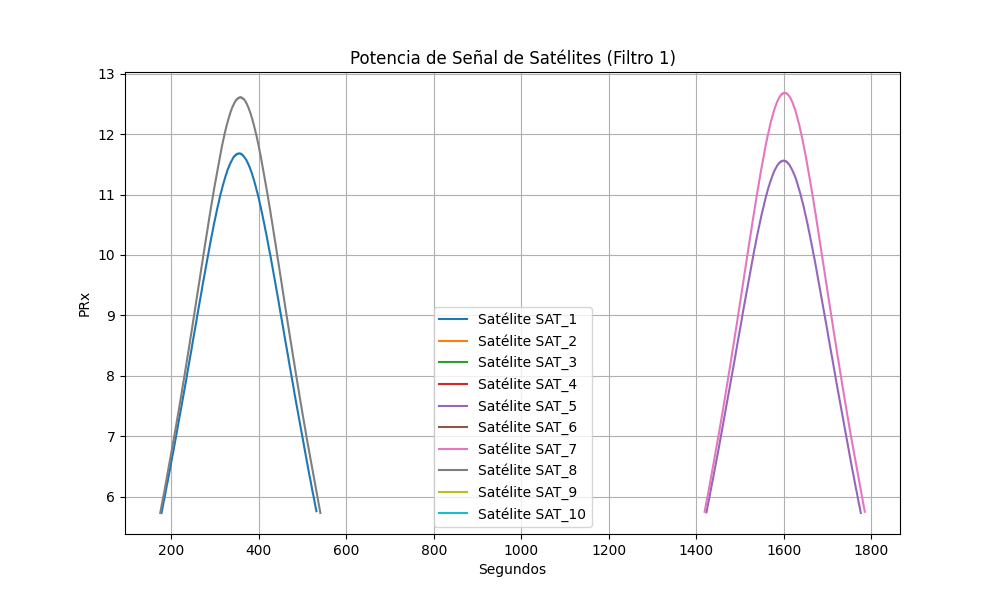
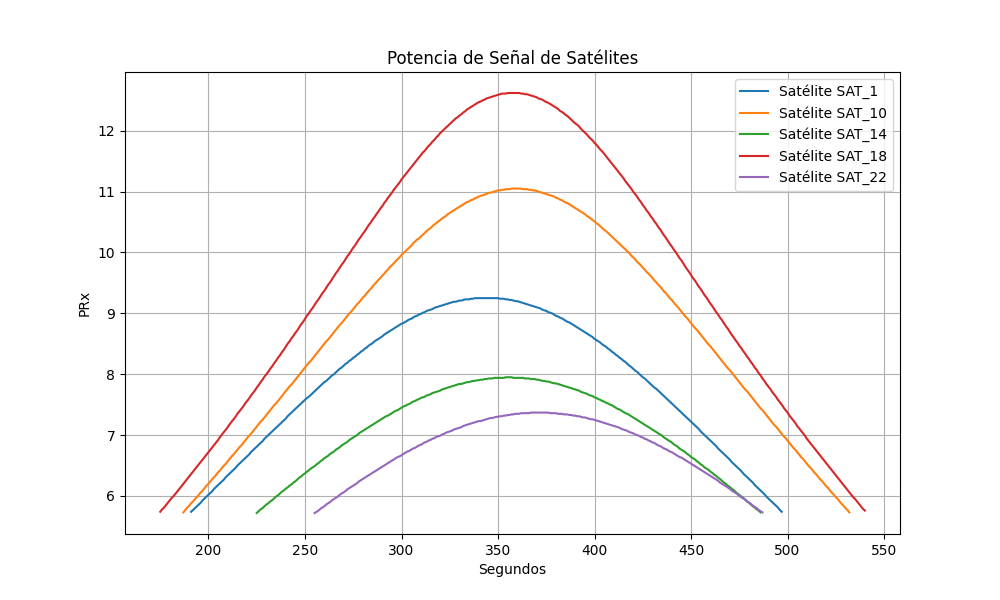
filtros

diff --git a/graficador.py b/graficador.py
@@ -1,30 +1,71 @@
-from datos_satelites import Satelite
+from datos_satelites import Satelite, DatosSatelite
 import matplotlib.pyplot as plt
+import numpy as np
+from typing import Callable
 
 class GraficadorPotencia:
 
-    def grafica_potencias(self, satelites: list[Satelite], grafica_name="grafica_potencias.png") -> None:
+    def __init__(self, satelites: list[Satelite]):
+        self.satelites = satelites
+
+    def grafica_potencias(self, grafica_name="grafica_potencias.png") -> None:
         plt.figure(figsize=(10, 6))
-        for satelite in satelites:
+        for satelite in self.satelites:
             segundos = [dato.segundo for dato in satelite.datos]
             prx_values = [dato.prx for dato in satelite.datos]
-            plt.plot(segundos, prx_values, label=f'Satélite {satelite.id}')
-        
-        self._show_plot('Potencia de Señal de Satélites', grafica_name)
-    
-    def grafica_potencias_filtro1(self, satelites: list[Satelite], grafica_name="grafica_potencias_filtro1.png") -> None:
-        plt.figure(figsize=(10, 6))
-        for satelite in satelites:
-            segundos = [dato.segundo for dato in satelite.datos if dato.is_visible_outer]
-            prx_values = [dato.prx for dato in satelite.datos if dato.is_visible_outer]
-            plt.plot(segundos, prx_values, label=f'Satélite {satelite.id}')
-        
-        self._show_plot('Potencia de Señal de Satélites (Filtro 1)', grafica_name)
+            
+            horas_str = [f"{segundo // 3600:02d}:{(segundo % 3600) // 60:02d}:{segundo % 60:02d}" for segundo in segundos]
 
-    def _show_plot(self, title: str, grafica_name: str) -> None:
+            step = max(1, len(segundos) // 10)
+            plt.xticks(
+                segundos[::step],
+                horas_str[::step]
+            )
+
+            plt.plot(segundos, prx_values, label=f'Satélite {satelite.id}')
+        
+        self._show_plot('Potencia de Señal de Satélites', 'Horas', 'PRx', grafica_name)
+    
+    def grafica_disponibilidad_cobertura(self, grafica_name="grafica_disponibilidad_cobertura.png") -> None:
+        plt.figure(figsize=(10, 6))
+        segundos = [dato.segundo for dato in self.satelites[0].datos]
+        disponibilidad_outer = self._obtener_disponibilidad(segundos, lambda dato: dato.is_visible_outer)
+        disponibilidad_inner = self._obtener_disponibilidad(segundos, lambda dato: dato.is_visible_inner)
+        
+        str_times = [f"{segundo // 3600:02d}:{(segundo % 3600) // 60:02d}:{segundo % 60:02d}" for segundo in segundos]
+        plt.xticks([i for i in range(0, len(segundos), max(1, len(segundos) // 10))], [str_times[i] for i in range(0, len(segundos), max(1, len(segundos) // 10))])
+        
+        disponibilidad_outer = np.array(disponibilidad_outer)
+        disponibilidad_outer_0 = np.where(disponibilidad_outer == 0, 0, np.nan)
+        disponibilidad_outer_1 = np.where(disponibilidad_outer == 1, 0, np.nan)
+
+        disponibilidad_inner = np.array(disponibilidad_inner)
+        disponibilidad_inner_0 = np.where(disponibilidad_inner == 0, 1, np.nan)
+        disponibilidad_inner_1 = np.where(disponibilidad_inner == 1, 1, np.nan)
+
+        plt.plot(segundos, disponibilidad_outer_0, 'red', label='No Disponible (Outer)')
+        plt.plot(segundos, disponibilidad_outer_1, 'green', label='Disponible (Outer)')
+
+        plt.plot(segundos, disponibilidad_inner_0, 'orange', label='No Disponible (Inner)')
+        plt.plot(segundos, disponibilidad_inner_1, 'blue', label='Disponible (Inner)')
+        
+        self._show_plot('Disponibilidad Cobertura', 'Horas', 'Disponibilidad', grafica_name)
+    
+    def _obtener_disponibilidad(self, segundos: list[int], condition: Callable[[DatosSatelite], bool]) -> list[int]:
+        disponibilidad = []
+        for segundo in segundos:
+            for satelite in self.satelites:
+                if any(dato.segundo == segundo and condition(dato) for dato in satelite.datos):
+                    disponibilidad.append(1)
+                    break
+            else:
+                disponibilidad.append(0)
+        return disponibilidad
+
+    def _show_plot(self, title: str, xlabel: str, ylabel: str,  grafica_name: str) -> None:
         plt.title(title)
-        plt.xlabel('Segundos')
-        plt.ylabel('PRx')
+        plt.xlabel(xlabel)
+        plt.ylabel(ylabel)
         plt.legend()
         plt.grid()
         plt.savefig(grafica_name)

diff --git a/filtro_potencia.py b/filtro_potencia.py
@@ -1,0 +1,49 @@
+from abc import ABC, abstractmethod
+from datos_satelites import Satelite
+
+class FiltroPotencia(ABC):
+
+    def __init__(self):
+        self._next_filtro: FiltroPotencia | None = None
+
+    @abstractmethod
+    def filtrar(self, satelites: list[Satelite]) -> list[Satelite]: ...
+
+    def next(self, next_filtro: 'FiltroPotencia') -> 'FiltroPotencia':
+        self._next_filtro = next_filtro
+        return next_filtro
+
+
+class FiltroFootprintExterno(FiltroPotencia):
+    def __init__(self):
+        super().__init__()
+
+    def filtrar(self, satelites: list[Satelite]) -> list[Satelite]:
+        satelites_filtrados: list[Satelite] = []
+
+        for satelite in satelites:
+            datos_satelite = [dato for dato in satelite.datos if dato.is_visible_outer]
+            if len(datos_satelite) > 0:
+                satelites_filtrados.append(Satelite(id=satelite.id, datos=datos_satelite))
+        
+        if self._next_filtro:
+            return self._next_filtro.filtrar(satelites_filtrados)
+        return satelites_filtrados
+
+
+class FiltroPoteciaRecibida(FiltroPotencia):
+    def __init__(self, sensibilidad: float):
+        super().__init__()
+        self.sensibilidad = sensibilidad
+
+    def filtrar(self, satelites: list[Satelite]) -> list[Satelite]:
+        satelites_filtrados: list[Satelite] = []
+
+        for satelite in satelites:
+            datos_satelite = [dato for dato in satelite.datos if dato.prx >= self.sensibilidad]
+            if len(datos_satelite) > 0:
+                satelites_filtrados.append(Satelite(id=satelite.id, datos=datos_satelite))
+        
+        if self._next_filtro:
+            return self._next_filtro.filtrar(satelites_filtrados)
+        return satelites_filtrados

diff --git a/datos_satelites.py b/datos_satelites.py
@@ -6,6 +6,7 @@ class DatosSatelite(BaseModel):
     segundo: int
     prx: float
     is_visible_outer: bool = False
+    is_visible_inner: bool = False
 
 
 class Satelite(BaseModel):
@@ -22,17 +23,19 @@ class XLSXLectorSatelite:
         print(f"Leyendo datos del archivo: {self.file_path}")
         df = pd.read_excel(
             self.file_path,
-            usecols=["Hora", "Sat_ID", "PRx", "is_visible_outer"],
+            usecols=["hora", "sat_id", "PRx", "is_visible_outer", "is_visible_inner"],
         )
 
         for i, row in df.iterrows():
             print(f"Procesando fila numero {i}")
 
-            if row["Sat_ID"] not in self.satelites:
-                self.satelites[row["Sat_ID"]] = Satelite(id=row["Sat_ID"])
+            if row["sat_id"] not in self.satelites:
+                print(row["sat_id"], type(row["sat_id"]))
+                self.satelites[row["sat_id"]] = Satelite(id=row["sat_id"])
 
-            self.satelites[row["Sat_ID"]].datos.append(self._map_datos(row))
-        
+            self.satelites[row["sat_id"]].datos.append(self._map_datos(row))
+            
+        self._print_data()
         return list(self.satelites.values())
     
     def _calcular_segundos(self, hora: str) -> int:
@@ -41,7 +44,17 @@ class XLSXLectorSatelite:
     
     def _map_datos(self, row: pd.Series) -> DatosSatelite:
         return DatosSatelite(
-            segundo=self._calcular_segundos(row["Hora"]),
+            segundo=self._calcular_segundos(row["hora"]),
             prx=round(row["PRx"], 2),
-            is_visible_outer=row["is_visible_outer"]
+            is_visible_outer=row["is_visible_outer"],
+            is_visible_inner=row["is_visible_inner"]
         )
+
+    def _print_data(self) -> None:
+        for satelite in self.satelites.values():
+            print(f"Satélite ID: {satelite.id}")
+            print(f"Cantidad de datos: {len(satelite.datos)}")
+            count_outer_visible = sum(1 for datos in satelite.datos if datos.is_visible_outer)
+            print(f"Cantidad de datos con is_visible_outer=True: {count_outer_visible}")
+            count_inner_visible = sum(1 for datos in satelite.datos if datos.is_visible_inner)
+            print(f"Cantidad de datos con is_visible_inner=True: {count_inner_visible}")

diff --git a/test_graficador.py b/test_graficador.py
@@ -1,9 +1,19 @@
 from datos_satelites import XLSXLectorSatelite
 from graficador import GraficadorPotencia
+from filtro_potencia import FiltroFootprintExterno, FiltroPoteciaRecibida
 
-lector = XLSXLectorSatelite("datos.xlsx")
+lector = XLSXLectorSatelite("datos4.xlsx")
 satelites = lector.read_data()
 
-graficador = GraficadorPotencia()
+filtro_1 = FiltroFootprintExterno()
 
-graficador.grafica_potencias_filtro1(satelites)
+filtro_2 = FiltroPoteciaRecibida(sensibilidad=7)
+
+
+filtro_1.next(filtro_2)
+
+satelites_filtrados = filtro_1.filtrar(satelites)
+
+graficador = GraficadorPotencia(satelites_filtrados)
+
+graficador.grafica_potencias(grafica_name="grafica_potencias_filtro_potencia_recibida.png")

diff --git a/test_lector.py b/test_lector.py
@@ -1,6 +1,6 @@
 from datos_satelites import XLSXLectorSatelite
 
-lector = XLSXLectorSatelite("datos.xlsx")
+lector = XLSXLectorSatelite("datos3.xlsx")
 
 satelites = lector.read_data()
 
@@ -10,3 +10,6 @@ for s in satelites:
 
     count_outer_visible = sum(1 for datos in s.datos if datos.is_visible_outer)
     print(f"Cantidad de datos con is_visible_outer=True: {count_outer_visible}")
+
+    count_inner_visible = sum(1 for datos in s.datos if datos.is_visible_inner)
+    print(f"Cantidad de datos con is_visible_inner=True: {count_inner_visible}")